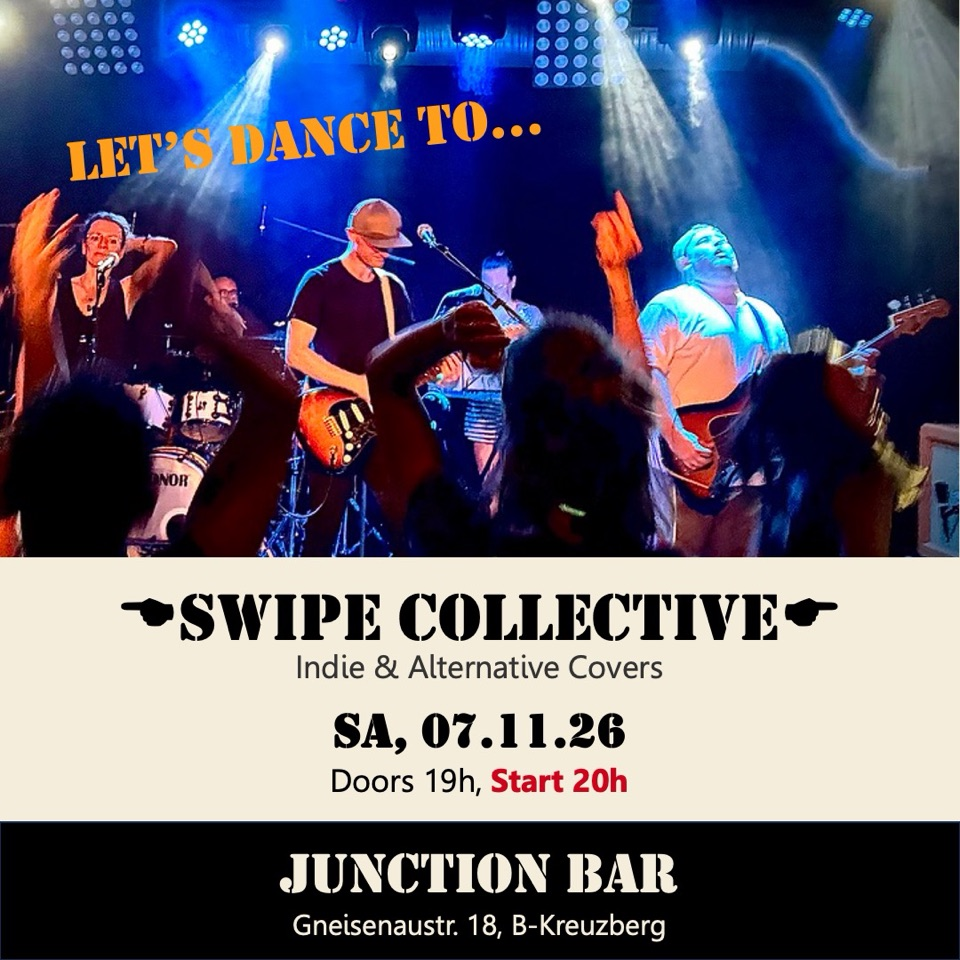
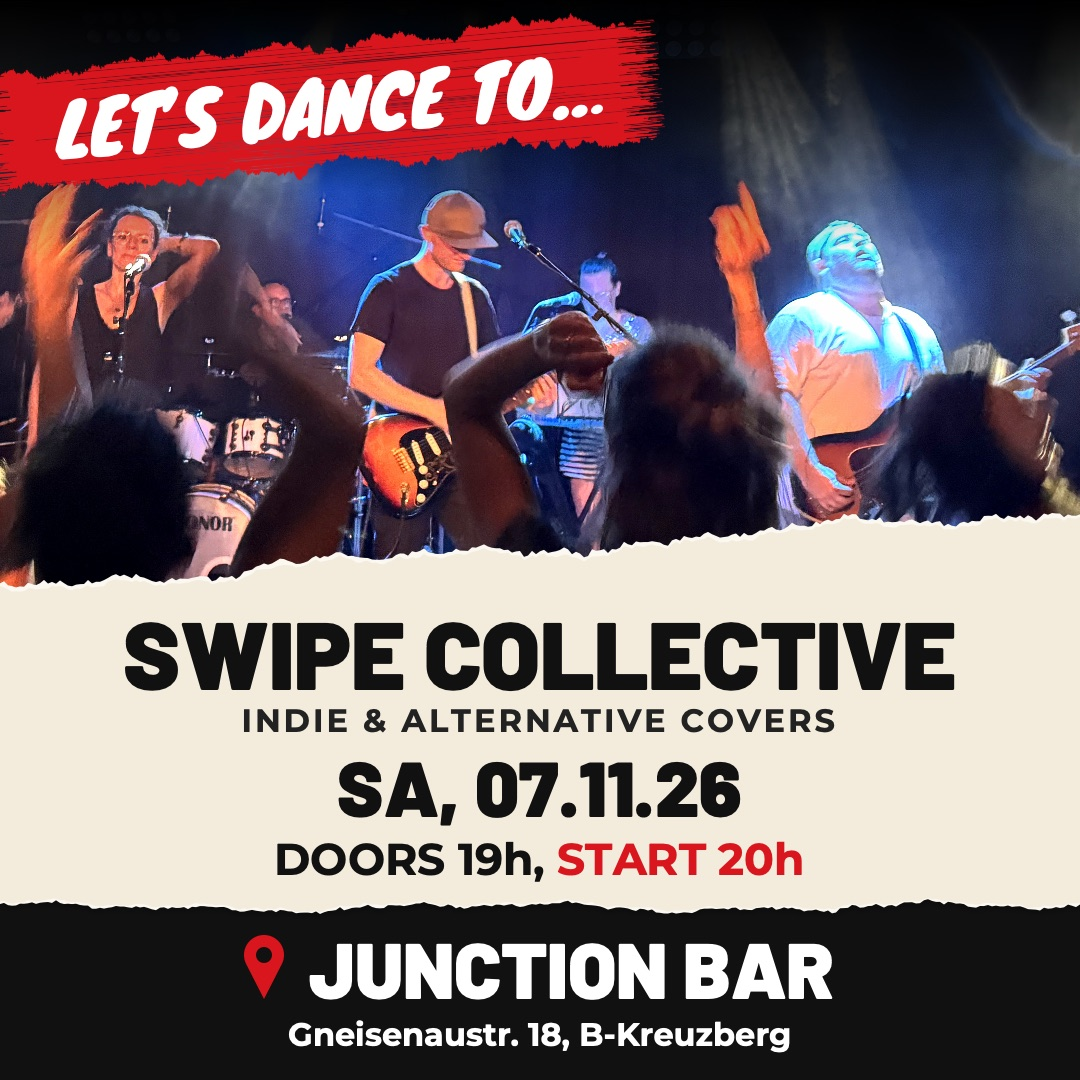
Neuer Flyer (1080 × 1080), og:image-Maße

diff --git a/index.html b/index.html
@@ -10,8 +10,8 @@
 <meta property="og:title" content="Swipe Collective · Sa 07.11. · Junction Bar">
 <meta property="og:description" content="Gästeliste / Guest list">
 <meta property="og:image" content="https://vossmartin.github.io/november26/poster.jpg">
-<meta property="og:image:width" content="960">
-<meta property="og:image:height" content="960">
+<meta property="og:image:width" content="1080">
+<meta property="og:image:height" content="1080">
 <meta name="twitter:card" content="summary_large_image">
 <style>
   :root {
